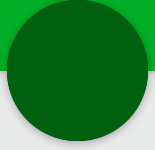
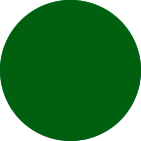
fix bugs -3: add separator,fix image, fix circle, add header table. All fix besides question autosize table

Changed region(s): [[0.0, 0.0, 1.0, 1.0]]

diff --git a/index.html b/index.html
@@ -15,21 +15,23 @@
     <div id="wrapper">
       <div class="header">
         <div class="page-width">
+          <div class="circle"></div>
           <div class="header-wrapper">
-            <div class="circle"></div>
-            <ul class="head_list">
-              <li><a href="">Главная</a></li>
-              <li><a href="">О нас</a></li>
-              <li><a href="">Создать объявление</a></li>
-              <li>
-                <div class="textbox">
+            <div class="ad-text-fh">
+              <div class="ad-text-wrapper-fh">
+                <ul class="head_list table-cell-fh">
+                  <li><a href="">Главная</a></li>
+                  <li><a href="">О нас</a></li>
+                  <li><a href="">Создать объявление</a></li>
+                </ul>
+                <div class="textbox table-cell-fh">
                   <input type="text" value="Поиск...">
                   <button type="submit" class="button">
                     <img src="images/search.png" alt="submit" />
                   </button>
                 </div>
-              </li>
-            </ul>
+              </div>
+            </div>
           </div>
         </div>
       </div>

diff --git a/styles/style_header.css b/styles/style_header.css
@@ -1,14 +1,15 @@
 .header-wrapper {
-  padding-left: 100px;
+  padding-left: 250px;
   position: relative;
 }
 
 .circle{
-  width: 163px;
-  height: 173px;
-  background-image: url(../images/ellipce2.png);
+  width: 141px;
+  height: 141px;
+  margin: 18px;
+  background-image: url(../images/ellipce.png);
   background-repeat: no-repeat;
-  display: inline-block;
+  float: left;
 }
 
 .head_list {
@@ -17,13 +18,17 @@
   font-size: 36px;
   height: 50px;
   display: inline-block;
-  vertical-align: top;
+  overflow: hidden;
 }
 
 .head_list li {
+  border-left: 1px solid #00BA31;
+  border-right: 1px solid #009923;
   float: left;
-  margin-left: 10px;
-  margin-right: 10px;
+  padding-left: 10px;
+  padding-right: 10px;
+  margin: 0 -1px 0 -1px;
+
 }
 
 .head_list li a {
@@ -62,4 +67,18 @@ input[type="text"] {
   border: 0;
   width: 36px;
   height: 36px;
+}
+
+.ad-text-fh {
+  width: 100%;
+  display: inline-block;
+  vertical-align: middle;
+}
+
+.ad-text-wrapper-fh {
+  display: table;
+ }
+
+.table-cell-fh {
+  display: table-cell;
 }

diff --git a/styles/style_sidebar.css b/styles/style_sidebar.css
@@ -7,7 +7,7 @@
 	width: 1236px;
 	height: 205px;
 	position: relative;
-	top: 100px;
+	float: left;
 }
 
 .menu_list {
@@ -33,10 +33,12 @@
     content: " ";  
     float: left; 
 	position: relative; 
-	top: -10px;
-    display: block;  
-    height: 74px;  
-    width: 74px; 
+	top: -15px;
+	left: 0px;
+    display: inline-block;  
+    height: 71px;  
+    width: 71px; 
+
 }
 
 .menu_list.li1:before { 
@@ -57,6 +59,8 @@
 
 .menu_list.li5:before { 
 	background: url(../images/sidebar/phone.png); 
+	background-repeat:no-repeat;
+	background-position:center;
 	}
 
 .menu_list.li6:before { 
@@ -84,8 +88,6 @@
 /* Вложенное меню */
 .menu_drop{
 	list-style: circle;
-	padding: 0;
-	margin: 0;
 	font-size: 16px;
 	color: #000000;
 	position: absolute;
